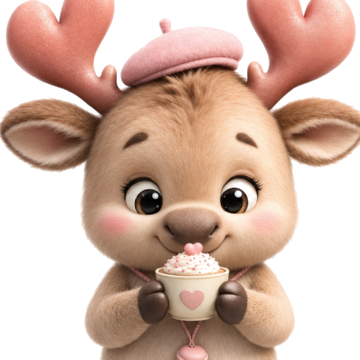
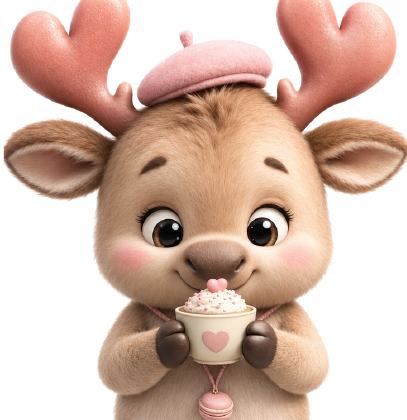
추가 과업 4건 — 항공사코드 확장 · 예시문구 연하게 · 마스코트 눈 복구 · 하노이 시드 분리
+1. lib/flight AIRLINES: ~25개 → ~120개 (한국·베트남·동남아 취항사 + 주요 국제선).
    carrierOf 편명 공백 허용
+2. index.css ::placeholder 전역 연하게 + placeholder:text-slate-600 제거.
    필수 항목은 "(필수)", 예시는 "ex) VJ961" 형식으로
+3. 마스코트 재크롭 — 외곽만 투명(엣지 flood-fill), 눈 하이라이트 등 내부 픽셀 보존.
    moose-face.png / moose-full.png 교체
+4. 하노이 시드를 기본에서 분리:
    - 새 계정/새 앱 = blankProject() 빈 여행으로 시작
    - HANOI_PROJECT + hanoiDoc + loadHanoiSample() 액션
    - MY › 여행에 "예시 여행 담기 · 하노이 3일" 버튼 (온디맨드)
    - resetLocal(로그아웃)도 빈 여행으로
    ※ 기존 사용자 데이터는 persist/클라우드로 그대로 유지

diff --git a/src/tabs/MyTab.tsx b/src/tabs/MyTab.tsx
@@ -174,7 +174,7 @@ function Chat() {
             onChange={(e) => setProfile({ displayName: e.target.value })}
             onBlur={() => syncMe()}
             placeholder="프로필명"
-            className="flex-1 bg-transparent text-sm font-semibold text-white outline-none placeholder:text-slate-600"
+            className="flex-1 bg-transparent text-sm font-semibold text-white outline-none"
           />
           {profile.chatBgDataUrl ? (
             <button onClick={() => setProfile({ chatBgDataUrl: null })} className="flex items-center gap-1 text-[11px] text-slate-400">
@@ -191,7 +191,7 @@ function Chat() {
           onChange={(e) => setProfile({ statusMessage: e.target.value })}
           onBlur={() => syncMe()}
           placeholder="상태 메시지"
-          className="w-full bg-transparent text-[12px] text-slate-300 outline-none placeholder:text-slate-600"
+          className="w-full bg-transparent text-[12px] text-slate-300 outline-none"
         />
         <input ref={avatarInput} type="file" accept="image/*" hidden onChange={pickImage('avatarDataUrl')} />
         <input ref={bgInput} type="file" accept="image/*" hidden onChange={pickImage('chatBgDataUrl')} />
@@ -238,7 +238,7 @@ function Chat() {
           onChange={(e) => setText(e.target.value)}
           onKeyDown={(e) => e.key === 'Enter' && send()}
           placeholder="메시지"
-          className="flex-1 rounded-full bg-moose-edge px-4 py-2 text-sm text-slate-100 outline-none placeholder:text-slate-600"
+          className="flex-1 rounded-full bg-moose-edge px-4 py-2 text-sm text-slate-100 outline-none"
         />
         <button onClick={send} className="rounded-full bg-moose-heart px-3 text-white"><Send size={16} /></button>
       </div>
@@ -281,6 +281,7 @@ function Trips() {
   const activeId = useAppStore((s) => s.activeProjectId);
   const setActive = useAppStore((s) => s.setActiveProject);
   const addProject = useAppStore((s) => s.addProject);
+  const loadHanoiSample = useAppStore((s) => s.loadHanoiSample);
   const patchProject = useAppStore((s) => s.patchProject);
   const removeProject = useAppStore((s) => s.removeProject);
   const cloudUser = useAppStore((s) => s.cloudUser);
@@ -401,7 +402,7 @@ function Trips() {
             value={joinCode}
             onChange={(e) => setJoinCode(e.target.value.toUpperCase())}
             placeholder="초대 코드 입력"
-            className="flex-1 rounded bg-moose-edge px-2 py-1.5 font-mono tracking-widest text-slate-100 outline-none placeholder:font-sans placeholder:tracking-normal placeholder:text-slate-600"
+            className="flex-1 rounded bg-moose-edge px-2 py-1.5 font-mono tracking-widest text-slate-100 outline-none placeholder:font-sans placeholder:tracking-normal"
           />
           <button onClick={join} className="btn-heart rounded-lg px-3 font-semibold">참여</button>
         </div>
@@ -411,10 +412,20 @@ function Trips() {
       {adding ? (
         <TripForm onSubmit={saveNew} onCancel={() => setAdding(false)} />
       ) : (
-        <button onClick={() => setAdding(true)}
-          className="flex w-full items-center justify-center gap-1 rounded-xl border border-dashed border-white/10 py-3 text-xs text-slate-400">
-          <Plus size={14} /> 여행 프로젝트 추가
-        </button>
+        <div className="space-y-1.5">
+          <button onClick={() => setAdding(true)}
+            className="flex w-full items-center justify-center gap-1 rounded-xl border border-dashed border-white/10 py-3 text-xs text-slate-400">
+            <Plus size={14} /> 여행 프로젝트 추가
+          </button>
+          {!projects.some((p) => p.id === 'hanoi-2026-09') && (
+            <button
+              onClick={() => setActive(loadHanoiSample())}
+              className="flex w-full items-center justify-center gap-1 rounded-xl border border-dashed border-white/10 py-2.5 text-[11px] text-slate-500"
+            >
+              🫎 예시 여행 담기 · 하노이 3일 (맛집·관광지·숙소 샘플)
+            </button>
+          )}
+        </div>
       )}
       <p className="pt-1 text-center text-[10px] text-slate-600">여행을 선택하면 일정·맛집·Todo·가계부가 해당 여행 데이터로 전환됩니다</p>
 
@@ -497,8 +508,8 @@ function TripForm({ initial, onSubmit, onCancel }: {
 
   return (
     <div className="space-y-2 card border-0 p-3 text-xs">
-      <input value={d.name} onChange={(e) => setD({ ...d, name: e.target.value })} placeholder="여행 이름 *" className={`w-full ${inp}`} />
-      <input value={d.destination} onChange={(e) => setD({ ...d, destination: e.target.value })} placeholder="목적지 (예: 베트남 하노이)" className={`w-full ${inp}`} />
+      <input value={d.name} onChange={(e) => setD({ ...d, name: e.target.value })} placeholder="여행 이름 (필수)" className={`w-full ${inp}`} />
+      <input value={d.destination} onChange={(e) => setD({ ...d, destination: e.target.value })} placeholder="목적지  ex) 베트남 하노이" className={`w-full ${inp}`} />
       <div className="flex gap-2">
         <input type="date" value={d.startDate} onChange={(e) => setD({ ...d, startDate: e.target.value })} className={`flex-1 ${inp}`} />
         <input type="date" value={d.endDate} onChange={(e) => setD({ ...d, endDate: e.target.value })} className={`flex-1 ${inp}`} />
@@ -521,20 +532,20 @@ function TripForm({ initial, onSubmit, onCancel }: {
               <input
                 value={f.flightNo}
                 onChange={(e) => setLeg(leg, 'flightNo', e.target.value)}
-                placeholder="편명 VJ961" className={`w-24 ${inp}`}
+                placeholder="편명  ex) VJ961" className={`w-28 ${inp}`}
               />
             </div>
             <input
               value={f.carrier || auto}
               onChange={(e) => setLeg(leg, 'carrier', e.target.value)}
-              placeholder="항공사 (편명 입력 시 자동)"
+              placeholder="항공사  ex) 비엣젯항공 (편명 쓰면 자동)"
               className={`w-full ${inp} ${!f.carrier && auto ? 'text-emerald-400' : ''}`}
             />
             <div className="flex items-center gap-1.5">
-              <input value={f.depAirport} onChange={(e) => setLeg(leg, 'depAirport', e.target.value.toUpperCase())} placeholder="ICN" maxLength={4} className={`w-14 uppercase ${inp}`} />
+              <input value={f.depAirport} onChange={(e) => setLeg(leg, 'depAirport', e.target.value.toUpperCase())} placeholder="ex)ICN" maxLength={4} className={`w-16 uppercase ${inp}`} />
               <input type="time" value={f.depTime} onChange={(e) => setLeg(leg, 'depTime', e.target.value)} className={`min-w-0 flex-1 ${inp}`} />
               <span className="text-slate-600">→</span>
-              <input value={f.arrAirport} onChange={(e) => setLeg(leg, 'arrAirport', e.target.value.toUpperCase())} placeholder="HAN" maxLength={4} className={`w-14 uppercase ${inp}`} />
+              <input value={f.arrAirport} onChange={(e) => setLeg(leg, 'arrAirport', e.target.value.toUpperCase())} placeholder="ex)HAN" maxLength={4} className={`w-16 uppercase ${inp}`} />
               <input type="time" value={f.arrTime} onChange={(e) => setLeg(leg, 'arrTime', e.target.value)} className={`min-w-0 flex-1 ${inp}`} />
             </div>
           </div>

diff --git a/src/lib/flight.ts b/src/lib/flight.ts
@@ -1,18 +1,40 @@
 import type { Flight, Project } from '../types';
 
-/** IATA 항공사 코드 → 한국어 이름 */
+/** IATA 항공사 코드 → 한국어 이름 (한국·베트남·동남아 취항사 위주 + 주요 국제선) */
 const AIRLINES: Record<string, string> = {
+  // --- 대한민국 ---
   KE: '대한항공', OZ: '아시아나항공', '7C': '제주항공', TW: '티웨이항공', LJ: '진에어',
-  BX: '에어부산', RS: '에어서울', ZE: '이스타항공', VJ: '비엣젯항공', VN: '베트남항공',
-  QH: '뱀부항공', VU: '비엣트래블항공', OD: '말린도항공', TR: '스쿠트', SL: '타이라이온에어',
-  D7: '에어아시아 X', AK: '에어아시아', FD: '타이에어아시아', PG: '방콕항공', TG: '타이항공',
-  SQ: '싱가포르항공', CX: '캐세이퍼시픽', JL: '일본항공', NH: '전일본공수', CI: '중화항공', BR: '에바항공',
+  BX: '에어부산', RS: '에어서울', ZE: '이스타항공', YP: '에어프레미아', RF: '에어로케이', HL: '하이에어',
+  // --- 베트남 ---
+  VN: '베트남항공', VJ: '비엣젯항공', QH: '뱀부항공', VU: '비엣트래블항공', BL: '퍼시픽항공', '0V': '바스코항공',
+  // --- 동남아 / LCC ---
+  TR: '스쿠트', MI: '실크에어', '3K': '젯스타 아시아', SQ: '싱가포르항공',
+  AK: '에어아시아', D7: '에어아시아 X', FD: '타이 에어아시아', XJ: '타이 에어아시아 X',
+  QZ: '인도네시아 에어아시아', Z2: '필리핀 에어아시아', I5: '에어아시아 인디아',
+  TG: '타이항공', WE: '타이 스마일', PG: '방콕항공', SL: '타이 라이온에어', DD: '녹에어', VZ: '타이 비엣젯',
+  MH: '말레이시아항공', OD: '바틱에어 말레이시아', FY: '파이어플라이',
+  GA: '가루다 인도네시아', QG: '시티링크', JT: '라이온에어', ID: '바틱에어', IU: '슈퍼에어젯',
+  PR: '필리핀항공', '5J': '세부퍼시픽', DG: '세부고',
+  BR: '에바항공', CI: '중화항공', B7: '유니항공', AE: '만다린항공', IT: '타이거에어 타이완', JX: '스타럭스항공',
+  CX: '캐세이퍼시픽', HX: '홍콩항공', UO: '홍콩익스프레스',
+  '3U': '쓰촨항공', CA: '중국국제항공', MU: '중국동방항공', CZ: '중국남방항공', HU: '하이난항공',
+  MF: '샤먼항공', FM: '상하이항공', ZH: '심천항공', GS: '천진항공', '9C': '춘추항공', HO: '준야오항공',
+  NH: '전일본공수(ANA)', JL: '일본항공(JAL)', MM: '피치항공', GK: '젯스타 재팬', BC: '스카이마크', '7G': '스타플라이어',
+  // --- 인도 / 중동 / 기타 ---
+  '6E': '인디고', UK: '비스타라', AI: '에어인디아', SG: '스파이스젯',
+  EK: '에미레이트항공', EY: '에티하드항공', QR: '카타르항공', GF: '걸프에어', SV: '사우디아항공',
+  TK: '터키항공', SU: '아에로플로트', S7: 'S7 항공',
+  // --- 유럽 / 미주 / 오세아니아 ---
+  LH: '루프트한자', LX: '스위스항공', OS: '오스트리아항공', AF: '에어프랑스', KL: 'KLM',
+  BA: '영국항공', VS: '버진애틀랜틱', AZ: 'ITA 항공', IB: '이베리아', AY: '핀에어',
+  UA: '유나이티드항공', AA: '아메리칸항공', DL: '델타항공', AC: '에어캐나다', HA: '하와이안항공',
+  QF: '콴타스항공', JQ: '젯스타', VA: '버진 오스트레일리아', NZ: '에어뉴질랜드', FJ: '피지항공',
 };
 
-/** 편명(예: VJ961, 7C1402) → 항공사명 */
+/** 편명(예: VJ961, 7C1402, "KE 123") → 항공사명 */
 export function carrierOf(flightNo?: string): string {
   if (!flightNo) return '';
-  const m = flightNo.trim().toUpperCase().match(/^([A-Z]\d|\d[A-Z]|[A-Z]{2})/);
+  const m = flightNo.replace(/\s+/g, '').toUpperCase().match(/^([A-Z]\d|\d[A-Z]|[A-Z]{2})/);
   return (m && AIRLINES[m[1]]) || '';
 }
 

diff --git a/src/store/useAppStore.ts b/src/store/useAppStore.ts
@@ -5,6 +5,7 @@ import type {
 } from '../types';
 import {
   SEED_PROJECT, SEED_RESTAURANTS, SEED_HOTELS, SEED_SPOTS, SEED_TIMELINE,
+  HANOI_PROJECT, blankProject,
 } from '../data/seed';
 import { commit, undo as histUndo, redo as histRedo } from './history';
 
@@ -22,8 +23,8 @@ function emptyDoc(): TripDoc {
   return { timeline: [], restaurants: [], hotels: [], spots: [], todos: [], expenses: [], messages: [], people: {}, diary: [] };
 }
 
-/** 시드 데이터를 활성 프로젝트에 귀속시켜 초기 문서 생성 */
-function seededDoc(projectId: string): TripDoc {
+/** 하노이 예시 데이터를 프로젝트에 귀속시켜 문서 생성 */
+function hanoiDoc(projectId: string): TripDoc {
   return {
     ...emptyDoc(),
     timeline: SEED_TIMELINE.map((t) => ({ ...t, id: uid(), projectId })),
@@ -32,6 +33,7 @@ function seededDoc(projectId: string): TripDoc {
     spots: SEED_SPOTS.map((s) => ({ ...s, id: uid(), projectId })),
   };
 }
+const START_PROJECT = blankProject();
 
 export interface CloudUser {
   id: string;
@@ -54,8 +56,10 @@ interface AppState {
   setCloudUser: (u: CloudUser | null) => void;
   /** 클라우드에서 받은 여행 목록/문서로 전체 교체 */
   hydrateCloud: (projects: Project[], docs: Docs) => void;
-  /** 로컬 시드 상태로 초기화 (로그아웃) */
+  /** 로컬 빈 여행 상태로 초기화 (로그아웃) */
   resetLocal: () => void;
+  /** 하노이 예시 여행을 추가 (MY › 여행 "예시 불러오기") */
+  loadHanoiSample: () => string;
 
   // --- 탭 네비게이션 ---
   activeTab: TabKey;
@@ -117,18 +121,28 @@ export const useAppStore = create<AppState>()(
       resetLocal: () =>
         set({
           cloudUser: null,
-          projects: [SEED_PROJECT],
-          activeProjectId: SEED_PROJECT.id,
-          present: { [SEED_PROJECT.id]: seededDoc(SEED_PROJECT.id) },
+          projects: [START_PROJECT],
+          activeProjectId: START_PROJECT.id,
+          present: { [START_PROJECT.id]: emptyDoc() },
           past: [],
           future: [],
         }),
+      loadHanoiSample: () => {
+        const id = HANOI_PROJECT.id;
+        set((s) => ({
+          projects: s.projects.some((p) => p.id === id) ? s.projects : [...s.projects, { ...HANOI_PROJECT }],
+          present: { ...s.present, [id]: s.present[id] ?? hanoiDoc(id) },
+          activeProjectId: id,
+          past: [], future: [],
+        }));
+        return id;
+      },
 
       activeTab: 'schedule',
       setTab: (t) => set({ activeTab: t }),
 
-      projects: [SEED_PROJECT],
-      activeProjectId: SEED_PROJECT.id,
+      projects: [START_PROJECT],
+      activeProjectId: START_PROJECT.id,
       setActiveProject: (id) => set({ activeProjectId: id }),
       addProject: (p) => {
         const id = `trip-${uid()}`;
@@ -168,7 +182,7 @@ export const useAppStore = create<AppState>()(
         }),
 
       past: [],
-      present: { [SEED_PROJECT.id]: seededDoc(SEED_PROJECT.id) },
+      present: { [START_PROJECT.id]: emptyDoc() },
       future: [],
       undo: () => set((s) => histUndo(s)),
       redo: () => set((s) => histRedo(s)),

diff --git a/src/tabs/PlacesView.tsx b/src/tabs/PlacesView.tsx
@@ -333,19 +333,19 @@ function AddPlaceForm({ projectId, onDone }: { projectId: string; onDone: () => 
     onDone();
   };
 
-  const inp = 'w-full rounded-lg bg-white/5 px-2.5 py-2 text-slate-100 outline-none ring-1 ring-white/5 placeholder:text-slate-600';
+  const inp = 'w-full rounded-lg bg-white/5 px-2.5 py-2 text-slate-100 outline-none ring-1 ring-white/5';
   return (
     <div className="card space-y-2 p-3 text-xs">
-      <input value={f.nameKo} onChange={set('nameKo')} placeholder="장소명 (한국어 표기) *" className={inp} />
-      <input value={f.name} onChange={set('name')} placeholder="원어명 (구글맵 검색용)" className={inp} />
+      <input value={f.nameKo} onChange={set('nameKo')} placeholder="장소명 (한국어 표기, 필수)" className={inp} />
+      <input value={f.name} onChange={set('name')} placeholder="원어명  ex) Pho Thin" className={inp} />
       <div className="grid grid-cols-2 gap-2">
         <input value={f.category} onChange={set('category')} placeholder="카테고리" className={inp} />
         <input value={f.area} onChange={set('area')} list="area-list" placeholder="구역" className={inp} />
         <datalist id="area-list">{areas.map((a) => <option key={a} value={a} />)}</datalist>
       </div>
-      <input value={f.priceVndText} onChange={set('priceVndText')} placeholder="2인 평균 (예: 180,000~240,000 VND)" className={inp} />
+      <input value={f.priceVndText} onChange={set('priceVndText')} placeholder="2인 평균  ex) 180,000~240,000 VND" className={inp} />
       <input value={f.menu} onChange={set('menu')} placeholder="추천 메뉴" className={inp} />
-      <input value={f.mapUrl} onChange={set('mapUrl')} placeholder="구글 지도 링크 (비우면 자동)" className={inp} />
+      <input value={f.mapUrl} onChange={set('mapUrl')} placeholder="구글 지도 링크 (비우면 자동 생성)" className={inp} />
       <input value={f.note} onChange={set('note')} placeholder="특징 / 한줄 소개" className={inp} />
       <div className="flex justify-end gap-2 pt-1">
         <button onClick={onDone} className="px-3 py-1 text-slate-400">취소</button>

diff --git a/src/components/DataTable.tsx b/src/components/DataTable.tsx
@@ -154,7 +154,7 @@ export default function DataTable<T>({
                           value={text[c.key] ?? ''}
                           onChange={(e) => setText((t) => ({ ...t, [c.key]: e.target.value }))}
                           placeholder="검색"
-                          className="w-full rounded-lg bg-white/5 px-2 py-1 text-[11px] font-normal text-slate-200 outline-none ring-1 ring-white/5 placeholder:text-slate-600"
+                          className="w-full rounded-lg bg-white/5 px-2 py-1 text-[11px] font-normal text-slate-200 outline-none ring-1 ring-white/5"
                         />
                       )}
                       {c.filter === 'range' && (
@@ -164,7 +164,7 @@ export default function DataTable<T>({
                             value={range[c.key]?.min ?? ''}
                             onChange={(e) => setRange((r) => ({ ...r, [c.key]: { ...r[c.key], min: e.target.value } }))}
                             placeholder="최소"
-                            className="w-full rounded-md bg-white/5 px-1 py-1 text-[10px] font-normal text-slate-200 outline-none ring-1 ring-white/5 placeholder:text-slate-600"
+                            className="w-full rounded-md bg-white/5 px-1 py-1 text-[10px] font-normal text-slate-200 outline-none ring-1 ring-white/5"
                           />
                           <span className="text-slate-600">~</span>
                           <input
@@ -172,7 +172,7 @@ export default function DataTable<T>({
                             value={range[c.key]?.max ?? ''}
                             onChange={(e) => setRange((r) => ({ ...r, [c.key]: { ...r[c.key], max: e.target.value } }))}
                             placeholder="최대"
-                            className="w-full rounded-md bg-white/5 px-1 py-1 text-[10px] font-normal text-slate-200 outline-none ring-1 ring-white/5 placeholder:text-slate-600"
+                            className="w-full rounded-md bg-white/5 px-1 py-1 text-[10px] font-normal text-slate-200 outline-none ring-1 ring-white/5"
                           />
                         </div>
                       )}

diff --git a/src/data/seed.ts b/src/data/seed.ts
@@ -1259,7 +1259,8 @@ export const SEED_FLIGHTS = [
   }
 ] as const;
 
-export const SEED_PROJECT: Project = {
+/** 하노이 예시 여행 — 기본으로는 안 깔림. MY › 여행 "예시 불러오기"로만 추가. */
+export const HANOI_PROJECT: Project = {
   id: 'hanoi-2026-09',
   name: '하노이 커플 여행',
   destination: '베트남 하노이',
@@ -1269,6 +1270,23 @@ export const SEED_PROJECT: Project = {
   outbound: { date: '2026-09-11', flightNo: 'VJ961', depAirport: 'ICN', depTime: '11:05', arrAirport: 'HAN', arrTime: '13:35' },
   inbound: { date: '2026-09-13', flightNo: '9G410', depAirport: 'HAN', depTime: '16:20', arrAirport: 'ICN', arrTime: '22:45' },
 };
+/** 하위호환 alias (persist migrate 등에서 참조) */
+export const SEED_PROJECT = HANOI_PROJECT;
+
+/** 새 계정/새 앱은 빈 여행으로 시작 (오늘~+2일) */
+export function blankProject(): Project {
+  const d = new Date();
+  const iso = (x: Date) => x.toISOString().slice(0, 10);
+  const end = new Date(d); end.setDate(end.getDate() + 2);
+  return {
+    id: 'trip-start',
+    name: '새 여행',
+    destination: '',
+    startDate: iso(d),
+    endDate: iso(end),
+    timezone: 'Asia/Ho_Chi_Minh',
+  };
+}
 
 // 항공편을 고정 타임라인 항목으로 시드 (좌표는 Phase 2 동선에서 채움)
 export const SEED_TIMELINE: Omit<TimelineItem, 'id' | 'projectId'>[] = [

diff --git a/src/tabs/DiaryView.tsx b/src/tabs/DiaryView.tsx
@@ -61,7 +61,7 @@ export function DiaryQuickWrite() {
           onChange={(e) => setText(e.target.value)}
           onKeyDown={(e) => e.key === 'Enter' && submit()}
           placeholder="한 줄 남기기"
-          className="min-w-0 flex-1 rounded-md bg-moose-edge px-2.5 py-1.5 text-xs text-slate-100 outline-none placeholder:text-slate-600"
+          className="min-w-0 flex-1 rounded-md bg-moose-edge px-2.5 py-1.5 text-xs text-slate-100 outline-none"
         />
         <button
           onClick={submit}
@@ -117,7 +117,7 @@ export default function DiaryView() {
           onChange={(e) => setText(e.target.value)}
           placeholder="오늘 어땠어요?"
           rows={2}
-          className="w-full resize-none rounded-lg bg-moose-edge px-3 py-2 text-sm text-slate-100 outline-none placeholder:text-slate-600"
+          className="w-full resize-none rounded-lg bg-moose-edge px-3 py-2 text-sm text-slate-100 outline-none"
         />
         <div className="flex items-center justify-between">
           <div className="flex gap-1">

diff --git a/src/tabs/ToolsView.tsx b/src/tabs/ToolsView.tsx
@@ -93,7 +93,7 @@ function Phrasebook() {
         value={q}
         onChange={(e) => setQ(e.target.value)}
         placeholder="상황·단어 검색 (택시, 계산…)"
-        className="w-full rounded-lg bg-moose-edge px-3 py-2 text-sm text-slate-100 outline-none placeholder:text-slate-600"
+        className="w-full rounded-lg bg-moose-edge px-3 py-2 text-sm text-slate-100 outline-none"
       />
       {groups.map((g) => (
         <div key={g.title}>
@@ -155,7 +155,7 @@ function FxCalc() {
         onChange={(e) => setAmount(e.target.value.replace(/[^\d]/g, ''))}
         inputMode="numeric"
         placeholder={dir === 'v2k' ? '동(₫) 금액' : '원(₩) 금액'}
-        className="w-full rounded-xl bg-moose-edge px-4 py-3 text-right text-xl font-bold text-slate-100 outline-none placeholder:text-slate-600"
+        className="w-full rounded-xl bg-moose-edge px-4 py-3 text-right text-xl font-bold text-slate-100 outline-none"
       />
 
       <div className="rounded-xl bg-moose-heart/10 p-4 text-center">

diff --git a/src/tabs/TodoTab.tsx b/src/tabs/TodoTab.tsx
@@ -68,7 +68,7 @@ export default function TodoTab() {
           onChange={(e) => setText(e.target.value)}
           onKeyDown={(e) => e.key === 'Enter' && add()}
           placeholder="할 일 추가"
-          className="flex-1 rounded-lg bg-moose-edge px-3 py-2 text-sm text-slate-100 outline-none placeholder:text-slate-600"
+          className="flex-1 rounded-lg bg-moose-edge px-3 py-2 text-sm text-slate-100 outline-none"
         />
         <button onClick={add} className="rounded-lg bg-moose-heart px-3 text-white"><Plus size={16} /></button>
       </div>

diff --git a/src/tabs/TimelineView.tsx b/src/tabs/TimelineView.tsx
@@ -486,7 +486,7 @@ function Card({
           key={item.place}
           defaultValue={item.place}
           onBlur={(e) => e.target.value !== item.place && patch({ place: e.target.value })}
-          className="w-full bg-transparent text-sm font-semibold text-white outline-none placeholder:text-slate-600"
+          className="w-full bg-transparent text-sm font-semibold text-white outline-none"
           placeholder="장소명"
         />
         <div className="flex flex-wrap items-center gap-x-3 gap-y-1 text-[11px] text-slate-400">

diff --git a/src/tabs/BudgetTab.tsx b/src/tabs/BudgetTab.tsx
@@ -98,8 +98,8 @@ export default function BudgetTab() {
           inputMode="numeric"
           defaultValue={budget || ''}
           onChange={(e) => commitBudget(Number(e.target.value))}
-          placeholder="예: 1,500,000"
-          className="w-32 rounded bg-moose-edge px-2 py-0.5 text-right text-slate-200 outline-none placeholder:text-slate-600"
+          placeholder="ex) 1,500,000"
+          className="w-32 rounded bg-moose-edge px-2 py-0.5 text-right text-slate-200 outline-none"
         />
       </div>
 

diff --git a/src/components/CommentThread.tsx b/src/components/CommentThread.tsx
@@ -51,7 +51,7 @@ export default function CommentThread({
           onChange={(e) => setText(e.target.value)}
           onKeyDown={(e) => e.key === 'Enter' && submit()}
           placeholder="코멘트 남기기"
-          className="min-w-0 flex-1 rounded-lg bg-moose-edge px-3 py-2 text-sm text-slate-100 outline-none placeholder:text-slate-600"
+          className="min-w-0 flex-1 rounded-lg bg-moose-edge px-3 py-2 text-sm text-slate-100 outline-none"
         />
         <button
           onClick={submit}
